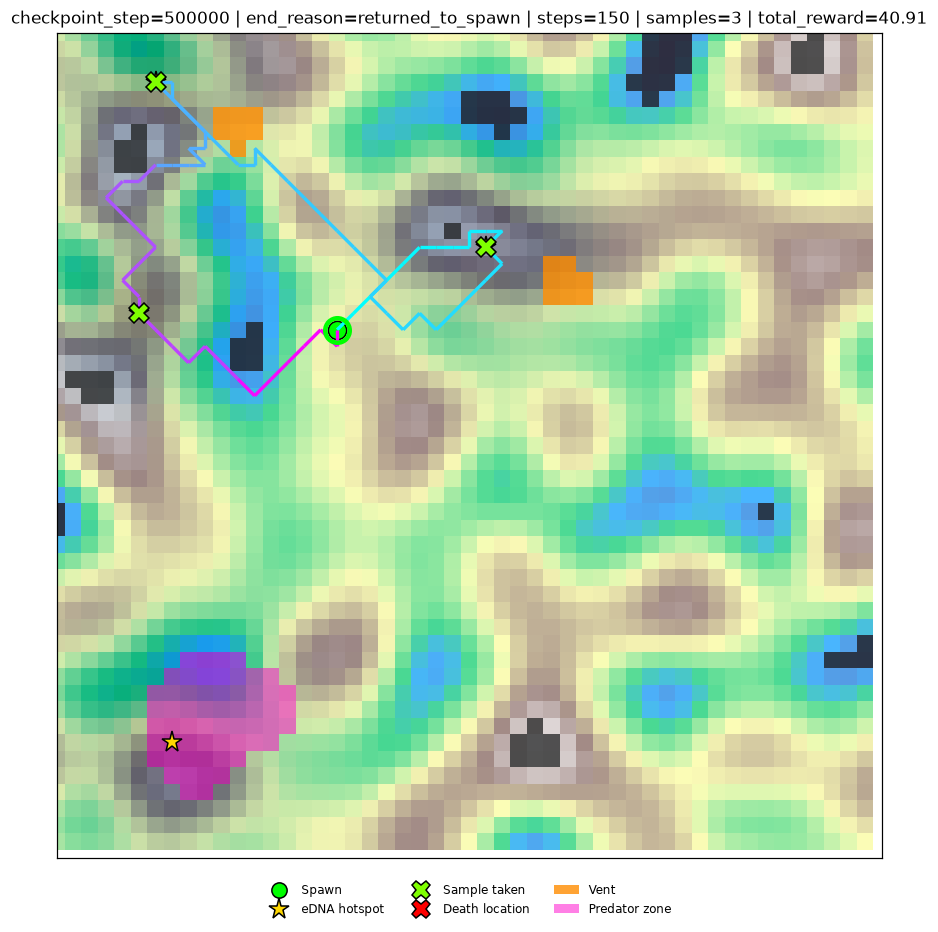
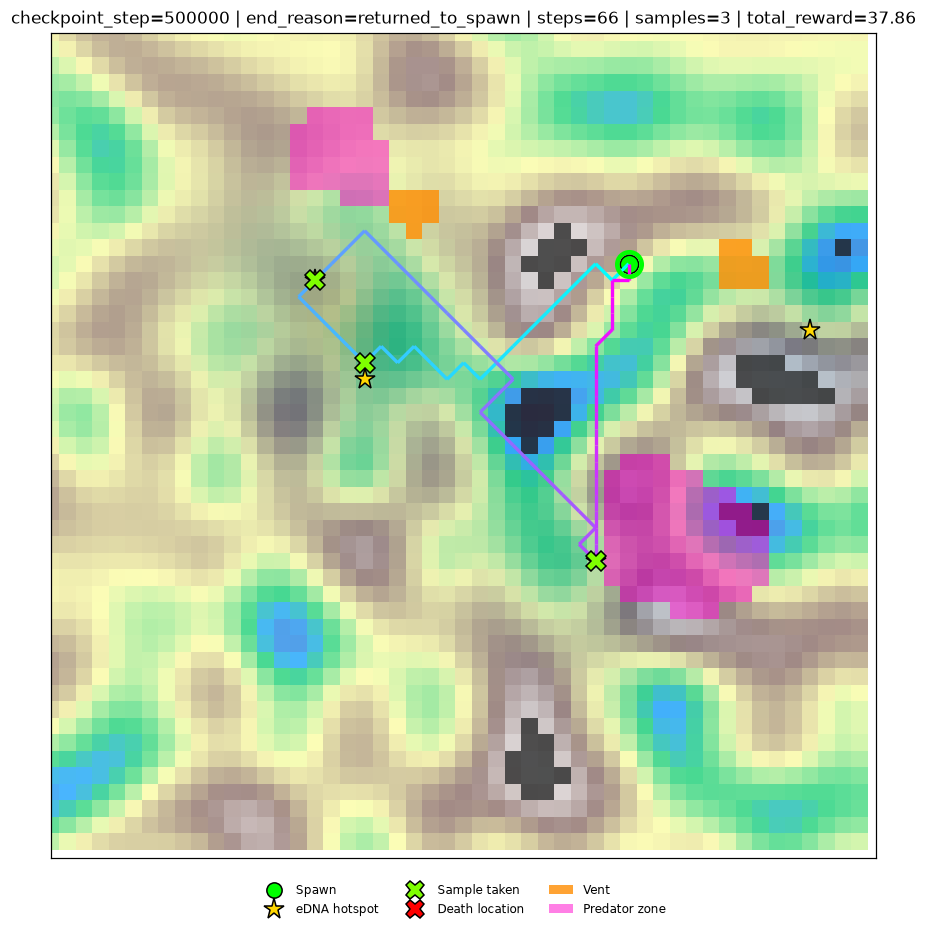
Update example run with the final agent

diff --git a/scripts/environment.py b/scripts/environment.py
@@ -28,6 +28,7 @@ IDLE_ENERGY_COST = 1.0
 VIEW_RADIUS = 24
 VIEW = 2 * VIEW_RADIUS + 1 
 RETURN_START_PROB = 0.3
+SAMPLE_RADIUS = 1   
 
 class SeafloorEDNAEnv(gym.Env):
     metadata = {"render_modes": ["rgb_array"]}
@@ -121,8 +122,14 @@ class SeafloorEDNAEnv(gym.Env):
         r, c = self.agent_pos
         for a, (dr, dc) in enumerate(DIRECTIONS):
             nr, nc = r + dr, c + dc
-            if 0 <= nr < self.grid_size and 0 <= nc < self.grid_size and self.vent_mask[nr, nc]:
+            if (not (0 <= nr < self.grid_size and 0 <= nc < self.grid_size)
+                    or self.impassable[nr, nc] or self.vent_mask[nr, nc]):
                 mask[a] = False
+        mask[8] = self.canisters > 0 and any(
+            self.sampled_mask[h] == 0 and max(abs(r - h[0]), abs(c - h[1])) <= SAMPLE_RADIUS
+            for h in self.hotspots)
+        if not mask.any():
+            mask[:] = True
         return mask
 
     def _compute_danger_potential(self, danger_radius: float = 6.0, scale: float = 0.15) -> float:
@@ -266,20 +273,21 @@ class SeafloorEDNAEnv(gym.Env):
         if self.agent_pos != self.spawn:
             self.has_left_spawn = True
 
-        return 0.0  # movement itself has no direct reward, only the energy cost (applied above)
+        return 0.0  
 
     def _handle_sample(self) -> float:
         r, c = self.agent_pos
-        # not standing on a hotspot cell -> sampling does nothing
-        is_hotspot_cell = any((r, c) == h for h in self.hotspots)
-        if not is_hotspot_cell or self.canisters <= 0:
+        if self.canisters <= 0:
             return 0.0
-
-        if self.sampled_mask[r, c] > 0:
-            return -1.0  # already sampled this exact cell 
-
+        near = [h for h in self.hotspots if max(abs(r - h[0]), abs(c - h[1])) <= SAMPLE_RADIUS]
+        if not near:
+            return 0.0
+        fresh = [h for h in near if self.sampled_mask[h] == 0]
+        if not fresh:
+            return -1.0  # only already-sampled hotspots in range
+        h = min(fresh, key=lambda h: max(abs(r - h[0]), abs(c - h[1])))
         concentration = float(self.edna_field[r, c])
-        self.sampled_mask[r, c] = 1.0
+        self.sampled_mask[h] = 1.0
         self.canisters -= 1
         self.n_samples_taken += 1
         return concentration * 10.0

diff --git a/scripts/eval_final.py b/scripts/eval_final.py
@@ -6,19 +6,22 @@ from environment import SeafloorEDNAEnv
 from ppo import PPOAgent
 
 agent = PPOAgent(n_map_channels=6, n_scalars=5, n_actions=9, grid_size=49, device=torch.device("cpu"))
-agent.model.load_state_dict(torch.load(sys.argv[1], map_location="cpu"))
+agent.model.load_state_dict(torch.load(sys.argv[1], map_location="cpu",weights_only=True))
 env = SeafloorEDNAEnv(grid_size=50, max_steps=500)
 env.max_hotspot_dist = float(sys.argv[2]) if len(sys.argv) > 2 else None
+greedy = len(sys.argv) > 3 and sys.argv[3] == "greedy"
+print("mode:", "greedy" if greedy else "sampled")
 reasons, samples, rewards = Counter(), [], []
-for ep in range(50):
-    env.reset(seed=30_000 + ep)
+for ep in range(200):
+    env.reset(seed=50_000 + ep)
     env.canisters = 3
     obs, total = env._get_obs(), 0.0
     for t in range(500):
         with torch.no_grad():
             dist, _ = agent.model.forward(torch.tensor(obs["maps"])[None], torch.tensor(obs["scalars"])[None],
                                           torch.tensor(env.get_action_mask())[None])
-        obs, r, term, trunc, info = env.step(int(dist.probs.argmax()))
+        a = int(dist.probs.argmax()) if greedy else int(dist.sample())
+        obs, r, term, trunc, info = env.step(a)
         total += r
         if term or trunc: break
     reasons[info.get("end_reason")] += 1; samples.append(info.get("samples_taken", 0)); rewards.append(total)

diff --git a/scripts/sample_probe.py b/scripts/sample_probe.py
@@ -1,0 +1,26 @@
+import sys, numpy as np, torch
+import environment
+environment.RETURN_START_PROB = 0.0
+from environment import SeafloorEDNAEnv
+from ppo import PPOAgent
+
+agent = PPOAgent(n_map_channels=6, n_scalars=5, n_actions=9, grid_size=49, device=torch.device("cpu"))
+agent.model.load_state_dict(torch.load(sys.argv[1], map_location="cpu", weights_only=True))
+env = SeafloorEDNAEnv(grid_size=50, max_steps=500)
+probs = {0: [], 1: [], 2: []}
+for ep in range(40):
+    env.reset(seed=40_000 + ep); env.canisters = 3
+    obs = env._get_obs()
+    for t in range(500):
+        with torch.no_grad():
+            dist, _ = agent.model.forward(torch.tensor(obs["maps"])[None], torch.tensor(obs["scalars"])[None],
+                                          torch.tensor(env.get_action_mask())[None])
+        if env.canisters > 0:
+            ds = [max(abs(env.agent_pos[0] - h[0]), abs(env.agent_pos[1] - h[1]))
+                  for h in env.hotspots if env.sampled_mask[h] == 0]
+            if ds and min(ds) in probs:
+                probs[min(ds)].append(float(dist.probs[0, 8]))
+        obs, r, term, trunc, info = env.step(int(dist.sample()))
+        if term or trunc: break
+for d, v in probs.items():
+    print(f"{d} tiles from an unsampled hotspot: n={len(v)}  mean P(SAMPLE)={np.mean(v) if v else float('nan'):.2f}")

diff --git a/scripts/visualize_rollout.py b/scripts/visualize_rollout.py
@@ -260,7 +260,7 @@ def main():
     if not args.random_policy:
         agent = PPOAgent(n_map_channels=6, n_scalars=5, n_actions=9, grid_size=49)
         if args.checkpoint:
-            agent.model.load_state_dict(torch.load(args.checkpoint, map_location=agent.device))
+            agent.model.load_state_dict(torch.load(args.checkpoint, map_location=agent.device,weights_only=True))
             agent.model.eval()
             print(f"Loaded checkpoint: {args.checkpoint}")
         else:

diff --git a/README.md b/README.md
@@ -6,25 +6,51 @@ The robot has to find hotspots under an energy budget, stay clear of lethal vent
 
 ## Results
 
-Final checkpoint (500k steps per environment, 8 environments, 4M environment steps in total, about 2 hours on a 12-core CPU). Evaluated on 50 fixed seeds per row, 3 canisters, no forced return starts, **sampling actions from the policy**:
+Final checkpoint: 500k steps per environment, 8 environments, 4M environment steps in total, about 2-3 hours on a 12-core CPU (depending on what else the machine is doing). Evaluated on **200 episodes per row on seeds that were never used for debugging**, with all 3 canisters and no forced return starts. "Sampled" draws actions from the policy; "greedy" always takes the most likely action. Intervals are 95% Wilson intervals on the return rate.
 
-| Hotspot distance limit | Returned to spawn | Out of energy | Hazard deaths | Samples (of 3) | Avg reward |
-|---|---|---|---|---|---|
-| 13 tiles | 41 / 50 | 6 | 3 | 1.88 | +18.9 |
-| 20 tiles | 37 / 50 | 10 | 3 | 1.84 | +17.1 |
-| 30 tiles (training maximum) | 41 / 50 | 7 | 2 | 1.80 | +19.8 |
-| unlimited (any distance ≥ 8) | 36 / 50 | 12 | 2 | 1.76 | +17.9 |
+| Hotspot distance limit | Mode | Returned to spawn | Out of energy | Predator deaths | Samples (of 3) | Avg reward |
+|---|---|---|---|---|---|---|
+| 13 tiles | sampled | 199 / 200 (99.5%, 97-100%) | 1 | 0 | 2.95 | +38.7 |
+| 13 tiles | greedy | 188 / 200 (94.0%, 90-97%) | 11 | 1 | 2.81 | +35.4 |
+| 30 tiles (training maximum) | sampled | 194 / 200 (97.0%, 94-99%) | 4 | 2 | 2.85 | +37.8 |
+| 30 tiles | greedy | 180 / 200 (90.0%, 85-93%) | 18 | 2 | 2.71 | +34.4 |
+| any distance (≥ 8 tiles) | sampled | 196 / 200 (98.0%, 95-99%) | 3 | 1 | 2.88 | +39.1 |
+| any distance (≥ 8 tiles) | greedy | 179 / 200 (89.5%, 84-93%) | 20 | 1 | 2.66 | +34.3 |
 
-Please read these with the following caveats:
+No vent deaths occurred in these 1,200 evaluation episodes.
 
-- **One training run, one seed.** I have no estimate of run-to-run variation. With 50 episodes per row, a rate around 75% carries roughly ±12 percentage points of sampling noise, so the differences between rows are not meaningful.
-- **The policy is stochastic.** Using the most likely action instead (`--deterministic`) is much worse: 14-22% returned and about 0.3 samples. The agent still relies on randomness to press SAMPLE at the right moment (a hotspot must be sampled from its exact cell).
-- **The environment tells the robot when to go home** (see "Design notes" below). It still has to navigate back and avoid hazards, but the timing of the decision is partly handed over.
-- It uses about 1.8 of 3 canisters on average. I haven't checked whether leaving canisters unused is the best trade-off or just a cautious one.
+How to read these numbers:
+
+- **One training run, one seed.** I have no estimate of run-to-run variation. The intervals only describe evaluation noise on this one checkpoint.
+- **Greedy is a few points below sampled** (about 5-8 points; the intervals don't overlap at 13 and "any distance"). It no longer collapses, but it is not as good, and it looks slightly worse at longer distances (more out-of-energy endings).
+- **The task is easier than the first version of this project.** Sampling works within 1 tile of a hotspot, and the action mask removes moves that do nothing (see below). The stricter earlier version is reported next.
+- **The environment tells the robot when to go home** (see "How it works"). It still has to navigate back and avoid hazards, but the timing of the decision is partly handed over.
+- The agent collects 2.7-2.95 of 3 canisters, so there is little room left on this metric.
+
+### Earlier, stricter version (exact-cell sampling, vent-only mask)
+
+In the first version a sample only counted from the hotspot's exact cell, and the mask only blocked vents. Evaluated on 50 episodes per row, sampled policy:
+
+| Hotspot distance limit | Returned to spawn | Samples (of 3) | Avg reward |
+|---|---|---|---|
+| 13 tiles | 41 / 50 | 1.88 | +18.9 |
+| 20 tiles | 37 / 50 | 1.84 | +17.1 |
+| 30 tiles | 41 / 50 | 1.80 | +19.8 |
+| any distance | 36 / 50 | 1.76 | +17.9 |
+
+The greedy policy of that version returned only 14-22% of the time and sampled about 0.3 per episode. That evaluation used 50 seeds that I also used while diagnosing problems, so treat it as rough. These numbers are not comparable to the table above: they come from a harder task and a different mask.
+
+## Example
+
+One evaluated episode from the earlier exact-cell version (seed 20, 3 canisters). I picked it from 20 seeds because the agent collects all 3 samples and returns home; a typical episode of that version collected about 1.8.
+
+![Example trajectory](images/example_trajectory.png)
+
+![Example run](images/example_run.gif)
 
 ## How it works
 
-**Environment** (`scripts/environment.py`): a procedurally generated 50×50 grid with Perlin-noise terrain, 3-5 eDNA hotspots per episode (Gaussian concentration fields), thermal vents (instant death, placed near hotspots to create risk/reward), predator zones (0.5% attack chance per step inside), 3 sample canisters, and an energy budget of 300 that has to cover the full round trip. The agent chooses from 9 actions: 8 moves and SAMPLE.
+**Environment** (`scripts/environment.py`): a procedurally generated 50×50 grid with Perlin-noise terrain, 3-5 eDNA hotspots per episode (Gaussian concentration fields), thermal vents (instant death, placed near hotspots to create risk/reward), predator zones (0.5% attack chance per step inside), 3 sample canisters, and an energy budget of 300 that has to cover the full round trip. The agent chooses from 9 actions: 8 moves and SAMPLE. SAMPLE collects from an unsampled hotspot within 1 tile and pays `concentration at the robot's cell × 10`.
 
 **Observation** (agent-centered):
 
@@ -34,13 +60,19 @@ Please read these with the following caveats:
 
 **Algorithm**: Proximal Policy Optimization written from scratch in PyTorch (no RL library): clipped surrogate objective, GAE (λ = 0.95), separate actor and critic networks (each a 3-layer CNN plus a small scalar embedding), entropy regularisation (0.01 → 0.001), learning rate annealed 3e-4 → 3e-5, gradient clipping applied separately to actor and critic. Rollouts come from 8 parallel worker processes (spawn-based, so it runs on Windows).
 
-**Safety**: moves onto a visible vent are blocked by an action mask. The mask is stored with every transition and replayed during the update. Predator zones are not masked on purpose; they are a risk to trade off, not certain death.
+**Action mask**: an action is masked out if it would do nothing or kill the robot:
+
+- moves onto a vent cell
+- moves off the map or into impassable terrain (these are no-ops that still cost energy)
+- SAMPLE, unless the robot has a canister and an unsampled hotspot is within 1 tile
+
+The mask is stored with every transition and replayed during the PPO update. Predator zones are not masked on purpose; they are a risk to trade off, not certain death. Offering SAMPLE only where it can succeed is a simplification: a real sampler would not be told when it is in range.
 
 **Training distribution**:
 
 - Hotspot distance follows a curriculum: each episode draws its maximum distance from spawn uniformly between 10 and a ceiling that grows over the whole run (quadratically) to 30 tiles.
 - 30% of episodes start in the **return phase** (agent already out on the map, no canisters, partly used tank). Without this, the return trip was almost never practised and training stalled at about 5% returns.
-- Canister count is random (1-3) in training.
+- Canister count is random (1-3) in training and fixed at 3 in evaluation.
 
 Full reward details are in [`REWARDS.md`](./REWARDS.md).
 
@@ -55,16 +87,19 @@ The interesting part of this project was diagnosing why training kept failing an
 - **The agent couldn't navigate (the biggest one).** Every run plateaued at random-level sampling. The cause was the observation: the robot's own position was only two scalars (later a single pixel in its own channel), and a CNN followed by a fully connected layer is very slow to learn "where is the blob relative to me" from that. A scripted expert showed the task was easy. In a behaviour-cloning test with the same network and data, the agent-centered view reached about 72% accuracy and 0.76 samples per episode after 60 epochs, against about 31% and 0.0 for the global view. Switching training to an agent-centered window fixed the plateau.
 - **Parking.** Once it could sample, the agent learned to stop and wait out the timeout instead of coming home, because idling cost almost nothing. Fixed by charging a full move's energy for any step that doesn't move the agent.
 - **Never learning to return.** The return trip was rare in training, so it wasn't learned (0 of 40 successes when I placed the agent on a hotspot with no canisters). Fixed by starting 30% of episodes in the return phase, plus the conditional home beacon. This took returns from about 5% to about 80%.
+- **Exact-cell sampling and a greedy policy that looped.** The probability of pressing SAMPLE was about 0.54, 0.56 and 0.49 on the hotspot cell, one tile away and two tiles away: the agent could not tell the exact cell, so it hovered next to hotspots pressing SAMPLE about half the time. The sampled policy got away with it; the greedy one pressed SAMPLE (or a blocked move) forever. Allowing sampling within 1 tile and masking actions that do nothing fixed most of it: on the same checkpoint, greedy returns went from 58% to 92% on a 50-episode check.
 - **A misleading evaluation.** An early evaluation script didn't apply the vent mask and showed 35% vent deaths; the training code was fine.
 
 ## Limitations
 
 - Single run and seed; the numbers above are not averaged over training runs.
-- The deterministic policy performs poorly (see Results).
-- The environment decides when to show the home beacon.
-- A small number of vent deaths (roughly 0-2% of logged training episodes) still occur despite the mask. I haven't found out why.
+- The greedy policy is a few points worse than the sampled one.
+- The environment decides when to show the home beacon, and offers SAMPLE only when it can succeed.
+- Sampling works within 1 tile, which makes the task easier than exact-cell sampling.
+- Vent deaths of about 1-4% appeared in some early training logs despite the mask; I never found the cause. None occurred in the 1,200 evaluation episodes above.
 - 2D grid world only; no physics or currents. A 3D version is a possible next step.
-- Hotspots farther than the 30-tile training maximum were only evaluated, not trained on.
+- The 30-tile curriculum maximum was exceeded only at evaluation ("any distance").
+- The example trajectory comes from the earlier version of the agent.
 
 ## Setup
 
@@ -80,16 +115,17 @@ The pinned `torch` is enough for CPU training, which is what this project uses (
 
 Run everything from the `scripts/` folder.
 
-Train from scratch (about 2 hours on 12 cores):
+Train from scratch:
 ```bash
 cd scripts
 python train.py
 python train.py --fast-test     # shorter proxy run
 ```
 
-Evaluate a checkpoint (samples actions from the policy; optional last argument is the hotspot distance limit):
+Evaluate a checkpoint (arguments: checkpoint, hotspot distance limit, optional `greedy`):
 ```bash
 python eval_final.py checkpoints/ppo_step500000_final.pt 30
+python eval_final.py checkpoints/ppo_step500000_final.pt 30 greedy
 ```
 
 Watch one episode (writes a trajectory image and a GIF to `rollout_viz/`):
@@ -104,20 +140,13 @@ python test_survivability.py
 
 Checkpoints are not stored in the repository.
 
-## Example
-
-Evaluated with 3 canisters; chosen from 20 seeds tried because the agent collects all 3 samples and returns home. A typical episode collects about 1.8
-
-![Example trajectory](Images/example_trajectory.png)
-
-![Example run](Images/example_run.gif)
-
 ## Repository layout
 
-- `scripts/environment.py`: the environment, reward and observation
+- `scripts/environment.py`: the environment, reward, observation and action mask
 - `scripts/terrain_generator.py`, `object_placement.py`, `hazards.py`: procedural generation
 - `scripts/networks.py`, `ppo.py`, `buffer.py`: actor-critic network and PPO
 - `scripts/vec_env.py`: parallel environments
 - `scripts/train.py`: training loop, curriculum and schedules
 - `scripts/eval_final.py`, `visualize_rollout.py`, `visualize_environment.py`, `test_survivability.py`: evaluation and diagnostics
 - `REWARDS.md`: reward and energy reference
+- `images/`: example trajectory and run animation

diff --git a/REWARDS.md b/REWARDS.md
@@ -8,15 +8,16 @@ This reflects the version that produced the results in the README. Things that c
 - the return bonus is `5 + 2.5 × samples` (was `0.5 + 2.5 × samples`)
 - the "go home" shaping target can switch on early when energy runs low, not only when canisters run out
 - 30% of training episodes start in the return phase (they are excluded from the logged statistics)
+- SAMPLE works within 1 tile of an unsampled hotspot (it used to require the exact cell), and the action mask now also blocks moves that do nothing and SAMPLE where it cannot succeed
 
 ## Reward terms
 
 | # | Event | Reward | When it fires |
 |---|---|---|---|
 | 1 | Per-step cost | **-0.04** | Every step. |
-| 2 | Successful sample | **`concentration × 10.0`** | Standing on an unsampled hotspot, pressing SAMPLE, with at least one canister left. `concentration` is the eDNA field value at that cell, normalised so the strongest hotspot is 1.0. |
-| 3 | Re-sampling a sampled hotspot | **-1.0** | SAMPLE on a hotspot that was already sampled. |
-| 4 | SAMPLE anywhere else, or with 0 canisters | **0.0** | No reward, but it is a non-moving step, so it still costs energy (see below). |
+| 2 | Successful sample | **`concentration × 10.0`** | Pressing SAMPLE within 1 tile (8-neighbourhood or the same cell) of an unsampled hotspot, with at least one canister left. `concentration` is the eDNA field value at the robot's own cell, normalised so the strongest hotspot is 1.0, so it is slightly lower one tile off the peak. The closest unsampled hotspot in range is the one marked as sampled. |
+| 3 | Re-sampling a sampled hotspot | **-1.0** | SAMPLE with only already-sampled hotspots in range. The mask normally prevents this (see below), so it only appears through the all-actions-allowed fallback. |
+| 4 | SAMPLE anywhere else, or with 0 canisters | **0.0** | No reward. Also normally masked out. A non-moving step still costs energy (see below). |
 | 5 | Hit a vent | **-20.0**, episode ends | Moving onto a vent cell. The action mask blocks this (see below), so it should not happen. A small number of vent endings (roughly 0-2% of logged training episodes) still appear; I haven't tracked down why. |
 | 6 | Predator attack | **-20.0**, episode ends | Inside a predator zone and the per-step attack roll (0.5%) comes up. Not masked on purpose: it is a probabilistic risk the agent can trade off. |
 | 7 | Out of energy | **-15.0**, episode ends | `energy <= 0`. |
@@ -32,7 +33,7 @@ Both shaping potentials are set to 0 at terminal and truncated steps, so the sha
 The tank starts at `max_energy = 300`.
 
 - **Moving:** cardinal step 1.0, diagonal step 1.5, plus a small elevation-based term (flat component 0.1). Measured on shortest safe paths, this came to about 1.1 energy per tile of straight-line distance.
-- **Not moving:** any step that leaves the agent where it is costs **1.0 energy**. That covers SAMPLE (including a successful one), bumping into impassable terrain and walking off the edge.
+- **Not moving:** any step that leaves the agent where it is costs **1.0 energy**. That covers SAMPLE (including a successful one), bumping into impassable terrain and walking off the edge. The mask now removes the pointless ones, but the cost still applies to a successful SAMPLE.
 - There is no other drain. The earlier version used a small drain on every step (0.1), which didn't stop the agent from parking and waiting for the timeout. Charging for idle steps closed that gap: an agent that stops moving now runs out of energy before the 500-step limit.
 
 ## What the shaping potentials measure
@@ -49,7 +50,15 @@ What is added to the reward each step is the *change* in these values, not a fix
 
 ## Action masking
 
-`get_action_mask()` returns a length-9 boolean array. Any of the 8 move actions that would step onto a vent cell is `False`; logits for masked actions are set to `-1e8` before the softmax. The mask is stored per step and replayed identically during the PPO update.
+`get_action_mask()` returns a length-9 boolean array. An action is `False` if:
+
+- it is a move onto a vent cell
+- it is a move off the map or into impassable terrain (a no-op that would only cost energy)
+- it is SAMPLE and the robot has no canister, or no unsampled hotspot is within 1 tile (`SAMPLE_RADIUS`)
+
+If every action would be masked, all actions are allowed (a safeguard for a boxed-in robot). Logits for masked actions are set to `-1e8` before the softmax, and the mask is stored per step and replayed identically during the PPO update.
+
+Why the extra masking: without it, a greedy policy could pick a move into a wall, or SAMPLE away from any hotspot, and repeat it forever, because the state never changed. The sampled policy escaped by chance. Masking those actions took the greedy policy from about 58% returns to about 92% on a 50-episode check, with no retraining. Offering SAMPLE only where it can succeed is a simplification, since a real sampler would not be told when it is in range.
 
 Evaluation code must pass the mask too. The policy never trains the logits of masked actions, so an evaluation without the mask walks into vents (this caused a spurious 35% vent rate in an early evaluation script).
 
@@ -75,3 +84,4 @@ Evaluation code must pass the mask too. The policy never trains the logits of ma
 - Parking should end in `out_of_energy` well before `max_steps`. If `max_steps` shows up in the logs again, idling is too cheap.
 - If vent endings climb in training logs despite masking, the mask is not being applied or replayed consistently somewhere.
 - Keep `gamma` in the environment and in the agent the same value, from one source.
+- With the mask in place, a greedy policy should not be able to repeat a no-op forever. If greedy evaluation episodes end in `out_of_energy` with the robot on a single cell, the mask is missing an action type.
